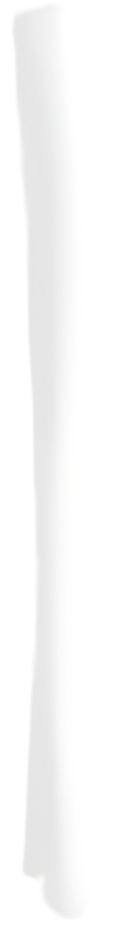
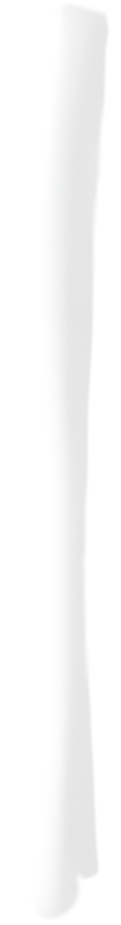
day 2

diff --git a/src/tried.ts b/src/tried.ts
@@ -1,5 +1,5 @@
 import * as PIXI from "pixi.js";
-import { Application, Assets, Sprite, Ticker, Texture, Container } from "pixi.js";
+import { Application, Assets, Sprite, Ticker, Texture, Container, Filter, GlProgram } from "pixi.js";
 import { PixiPlugin } from "gsap/PixiPlugin";
 import gsap from "gsap";
 import Background from "./Background";
@@ -397,9 +397,77 @@ import Background from "./Background";
 
   };
 
+  
+  // Define shader programs
+  const vertex = `
+    in vec2 aPosition;
+    out vec2 vTextureCoord;
+
+    uniform vec4 uInputSize;
+    uniform vec4 uOutputFrame;
+    uniform vec4 uOutputTexture;
+
+    void main(void) {
+        gl_Position = vec4(aPosition * 1.0 - 0.0, 1.0, 3.0);
+        vTextureCoord = aPosition;
+    }
+`;
+
+  const fragment = `
+  precision mediump float;
+
+  varying vec2 vTextureCoord;
+  uniform sampler2D uSampler;
+  uniform float uWaveAmplitude;
+  uniform float uWaveFrequency;
+  uniform float uTime;
+
+  void main() {
+      vec2 coord = vTextureCoord;
+
+      // Sadece texture üzerinde kaydır
+      coord.x += sin(coord.y * uWaveFrequency + uTime) * uWaveAmplitude;
+
+      gl_FragColor = texture2D(uSampler, coord);
+  }
+`;
+
+  // Create the filter
+const waveFilter = new Filter({
+    glProgram: new GlProgram({ vertex, fragment }),
+    resources: {
+        waveUniforms: {
+            uWaveAmplitude: { value: 0.05, type: 'f32' },
+            uWaveFrequency: { value: 5.0, type: 'f32' },
+            uTime: { value: 0.0, type: 'f32' }
+        }
+    }
+});
+
+
+  // Apply the filter
+  bottleLeftFront.filters = [waveFilter];
+
+
+
+
+
+
+
+
+
+
+
+
+
+
+
+
+
+
 
   // Pixi update loop
-  app.ticker.add((ticker: Ticker) => {
-    //bootleRight.rotation += 0.1 * ticker.deltaTime;
+  app.ticker.add((time) => {
+    waveFilter.resources.waveUniforms.uniforms.uTime += 0.1;
   });
 })();
